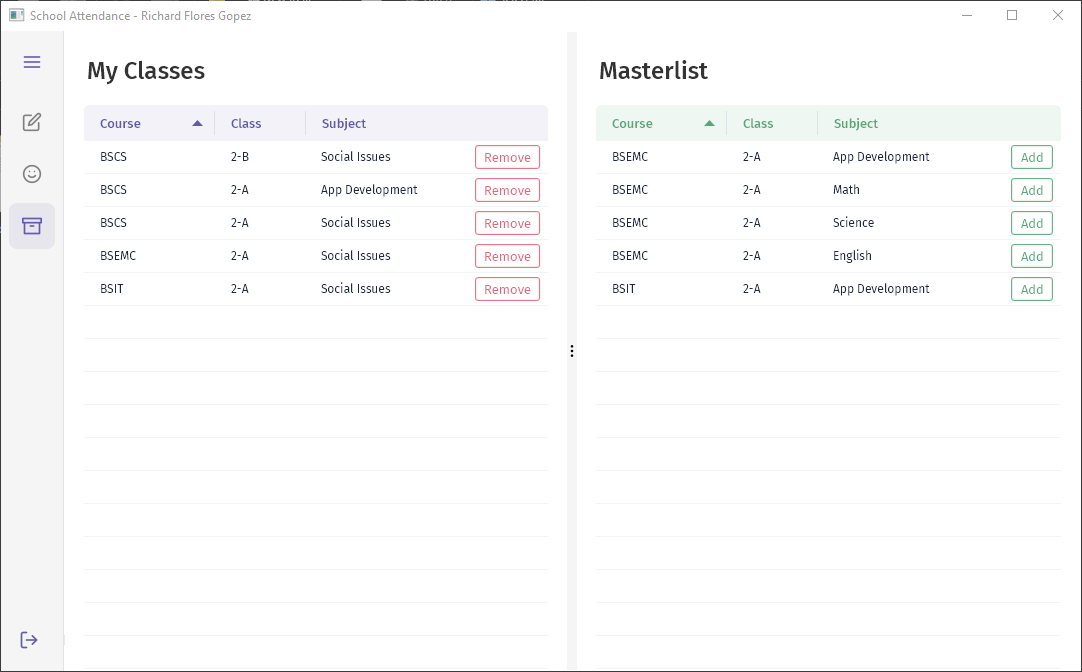
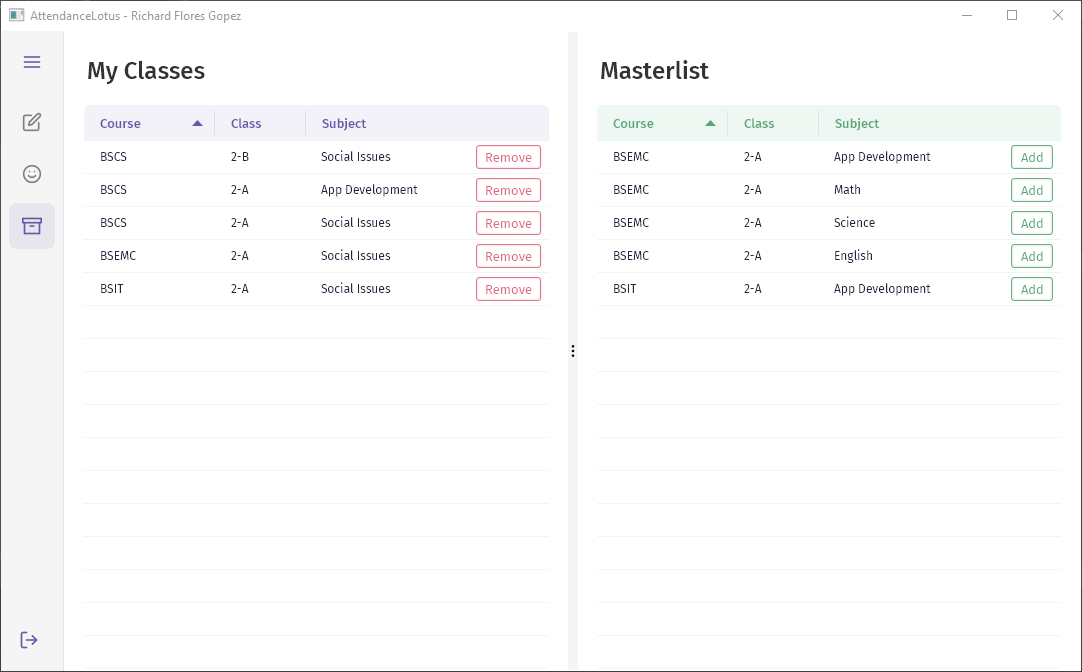
update app name

diff --git a/src/attendanceLotus/controller/loginController.java b/src/attendanceLotus/controller/loginController.java
@@ -73,7 +73,7 @@ public class loginController {
 
                         if (rs2.next()) {
                             Parent homeScreen = FXMLLoader.load(getClass().getResource("/attendanceLotus/view/admin/home.fxml"));
-                            stage.setTitle("School Attendance - Admin");
+                            stage.setTitle("AttendanceLotus - Admin");
                             stage.setScene(new Scene(homeScreen
                                     , 1280, 640
                                     ));
@@ -92,7 +92,7 @@ public class loginController {
 
                             homeController.loginTeacherID = rs2.getInt("teacherID");
                             Parent homeScreen = FXMLLoader.load(getClass().getResource("/attendanceLotus/view/teacher/home.fxml"));
-                            stage.setTitle("School Attendance - " + teacherName);
+                            stage.setTitle("AttendanceLotus - " + teacherName);
                             stage.setScene(new Scene(homeScreen, 1080, 640));
                         }
                         else {

diff --git a/src/attendanceLotus/controller/admin/homeController.java b/src/attendanceLotus/controller/admin/homeController.java
@@ -102,7 +102,7 @@ public class homeController implements Initializable {
             if (result.orElse(buttonType_cancel) == buttonType_logout) {
                 Parent login = FXMLLoader.load(getClass().getResource("/attendanceLotus/view/login.fxml"));
                 Stage stage = new Stage();
-                stage.setTitle("School Attendance");
+                stage.setTitle("AttendanceLotus");
                 stage.setScene(new Scene(login));
                 stage.show();
 

diff --git a/src/attendanceLotus/controller/teacher/homeController.java b/src/attendanceLotus/controller/teacher/homeController.java
@@ -106,7 +106,7 @@ public class homeController implements Initializable {
             if(result.orElse(buttonType_cancel) == buttonType_logout) {
                 Parent login = FXMLLoader.load(getClass().getResource("/attendanceLotus/view/login.fxml"));
                 Stage stage = new Stage();
-                stage.setTitle("School Attendance");
+                stage.setTitle("AttendanceLotus");
                 stage.setScene(new Scene(login));
                 stage.show();
 

diff --git a/src/attendanceLotus/Main.java b/src/attendanceLotus/Main.java
@@ -20,7 +20,7 @@ public class Main extends Application {
     @Override
     public void start(Stage primaryStage) throws Exception {
         Parent root = FXMLLoader.load(getClass().getResource("view/login.fxml"));
-        primaryStage.setTitle("School Attendance");
+        primaryStage.setTitle("AttendanceLotus");
         primaryStage.setScene(new Scene(root));
         primaryStage.setResizable(false);
         primaryStage.show();
